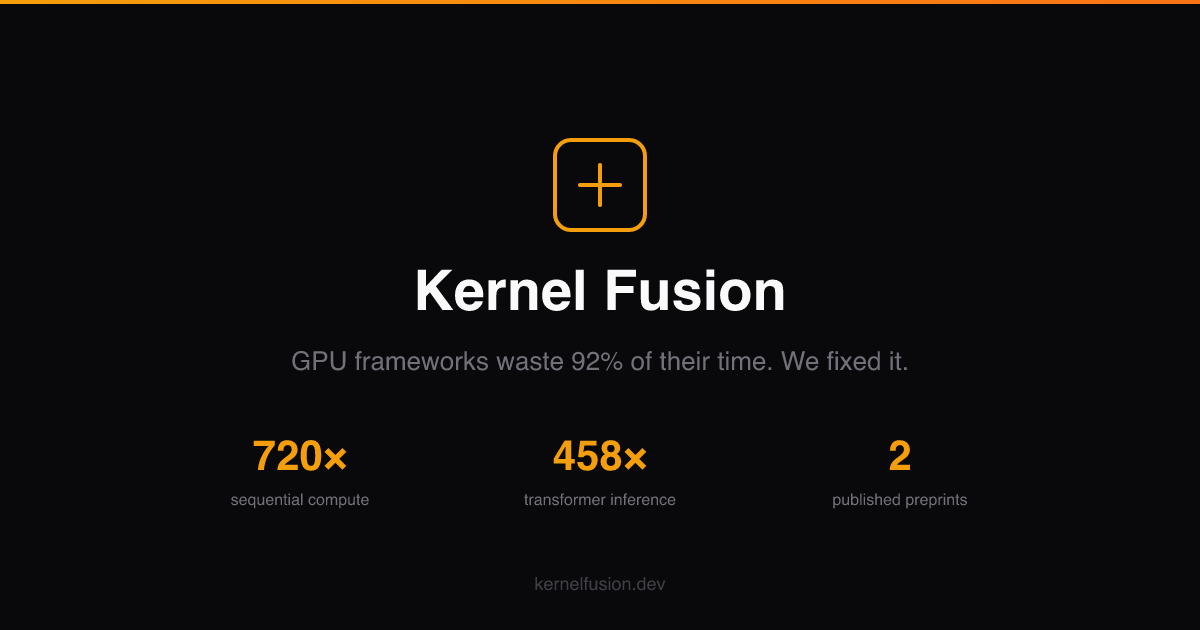
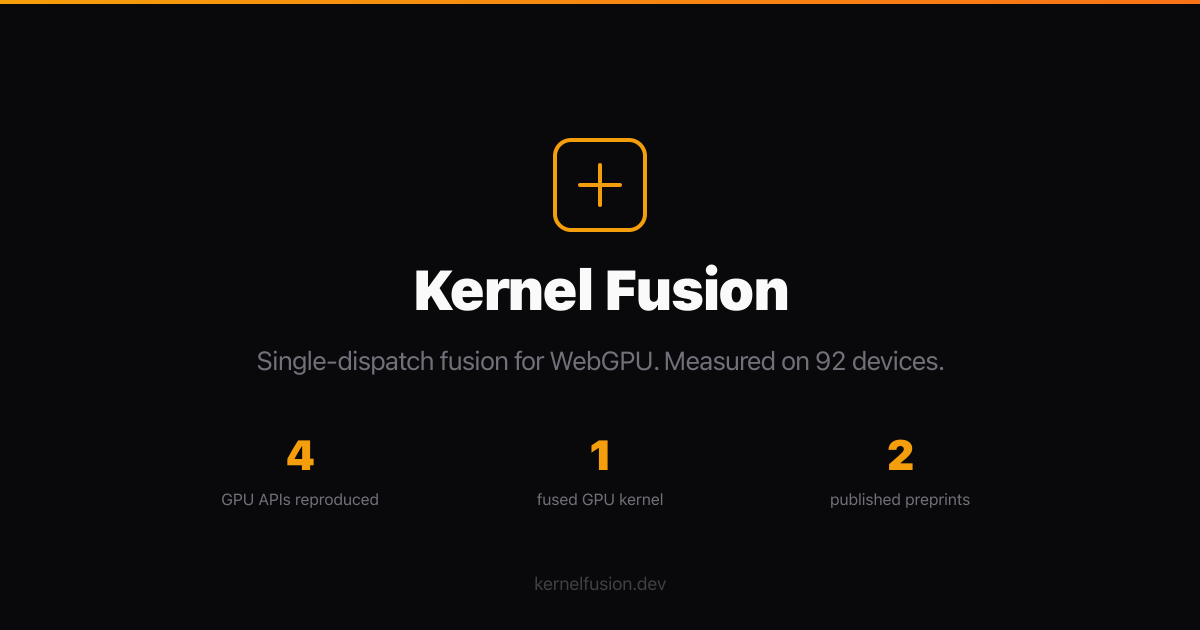
copy: clarify prior art + baseline framing across the site
- Hero (page.tsx, /why): drop "I fixed it" / "I proved it"; acknowledge
  TVM/XLA/Burn already fuse operator patterns; position contribution
  as full-decode/full-fitness fusion measured across 92 devices.
- /why step 1: replace "(PyTorch, JAX, WebLLM)" framework list with
  "eager browser GPU pipelines" — JAX-jit and WebLLM both fuse, so the
  old list misrepresented production compilers.
- /why: add Related Work section citing TVM/MLC/WebLLM (arXiv:2412.15803),
  Burn/CubeCL, ONNX Runtime Web, Maczan (arXiv:2604.02344, closest peer),
  nnJIT (arXiv:2309.08978).
- /why meta description: align with new framing.
- Insight diagram: "How frameworks work" -> "How eager dispatch works".
- live-results share text: drop "faster than PyTorch" overclaim; the
  cross-vendor 71x/56x medians are fused-vs-unfused on the same device,
  not over PyTorch (the Paper 2 cross-vendor table column is speedup_par).
- og.svg subtitle: "GPU frameworks waste 92% of their time. We fixed it."
  -> "Single-dispatch fusion for WebGPU. Measured on 92 devices."
  Regenerated og.png from updated svg via rsvg-convert.

diff --git a/src/app/why/page.tsx b/src/app/why/page.tsx
@@ -3,7 +3,7 @@ import { LINKS } from "@/lib/constants";
 
 export const metadata: Metadata = {
   title: "Why Kernel Fusion Matters — kernelfusion.dev",
-  description: "GPU frameworks waste 92% or more of their time on dispatch overhead. I eliminated it. 92 unique devices across 7 GPU vendors. Here's what that means for everyone.",
+  description: "Naïve browser GPU pipelines waste 92%+ of their time on dispatch overhead. Kernel fusion eliminates it; I shipped it for WebGPU and measured the result on 92 unique devices across 7 GPU vendors.",
 };
 
 const beforeAfter = [
@@ -23,7 +23,7 @@ const personas = [
 ];
 
 const steps = [
-  { title: "The problem: 92%+ overhead", desc: "GPU frameworks (PyTorch, JAX, WebLLM) send one small task to the GPU, wait for it to finish, send the next one. For a 64-token generation with 4 layers, that's 1,024 separate round-trips. Each round-trip takes longer than the actual math." },
+  { title: "The problem: 92%+ overhead on naïve dispatch", desc: "Eager browser GPU pipelines (TF.js, hand-written WebGPU loops) send one small task to the GPU, wait for it to finish, send the next one. For a 64-token generation with 4 layers, that's 1,024 separate round-trips. Each round-trip takes longer than the actual math. Compilers like TVM, XLA, and Burn fuse some of this — but rarely the whole graph, and the WebGPU backend is the least-tuned target across the board." },
   { title: "The fix: one dispatch", desc: "Pack the entire computation \u2014 all tokens, all layers, all operations \u2014 into a single GPU instruction. The GPU loops internally. No round-trips. No waiting. Same math, same result." },
   { title: "The proof: 92 unique devices, 7 vendors", desc: "Two preprints, then 92 unique devices ran it across 7 GPU vendors. Median speedups (the typical experience): Apple Silicon 71\u00D7, NVIDIA 56\u00D7, ARM Mali 55\u00D7, Intel 43\u00D7, AMD 40\u00D7, Qualcomm Adreno 20\u00D7. Tested across Chrome, Firefox, Safari on macOS, Windows, Linux, Android, and iOS." },
   { title: "The result: AI on a phone", desc: "213,000 tokens per second peak on a phone. 15,000 average across all mobile devices. No Python, no CUDA, no cloud. A browser tab outperforms PyTorch on the same hardware." },
@@ -55,8 +55,9 @@ export default function WhyPage() {
             The software isn&apos;t.
           </h1>
           <p className="text-lg text-kf-muted max-w-lg mx-auto">
-            GPU frameworks waste 92% or more of their time on overhead &mdash; sending tasks one by one
-            instead of all at once. I proved it, fixed it, and 92 unique devices across 7 GPU vendors confirmed it.
+            Naïve browser GPU pipelines waste 92%+ of their time on dispatch overhead &mdash; sending tasks
+            one by one instead of all at once. Kernel fusion eliminates that. I shipped it for WebGPU and
+            measured the result across 92 unique devices and 7 GPU vendors.
           </p>
         </header>
 
@@ -161,6 +162,56 @@ export default function WhyPage() {
                 Median speedup (the typical experience): NVIDIA 56&times;, Apple Silicon 71&times;, ARM Mali 55&times;, Intel 43&times;, AMD 40&times;, Qualcomm Adreno 20&times;.
                 Peak observed: 402&times; on NVIDIA, 226&times; on Apple Silicon, 103&times; on Qualcomm.
                 Smaller in relative terms on phones because absolute throughput is lower &mdash; but still an order of magnitude faster than unfused.
+              </p>
+            </div>
+          </div>
+        </section>
+
+        {/* Related work */}
+        <section className="py-16 border-t border-kf-border/50">
+          <h2 className="text-2xl font-bold mb-3">Related work</h2>
+          <p className="text-kf-muted mb-8 max-w-lg">
+            Kernel fusion isn&apos;t new. Here&apos;s the lineage and where this work fits.
+          </p>
+          <div className="space-y-4">
+            <div className="card">
+              <h3 className="font-semibold mb-2">Apache TVM / MLC-LLM / WebLLM <span className="text-xs text-kf-muted/70 font-normal">(since ~2020; WebLLM <a href="https://arxiv.org/abs/2412.15803" className="text-kf-accent hover:underline">arXiv:2412.15803</a>, Dec 2024)</span></h3>
+              <p className="text-sm text-kf-muted leading-relaxed">
+                TVM and MLC-LLM compile Python models through graph-level fusion down to WebGPU kernels.
+                WebLLM uses this stack to ship LLMs in the browser. This work fuses the entire autoregressive
+                decoder by hand in WGSL &mdash; no Python toolchain &mdash; and ablates the limit of single-dispatch fusion.
+              </p>
+            </div>
+            <div className="card">
+              <h3 className="font-semibold mb-2">Burn / CubeCL <span className="text-xs text-kf-muted/70 font-normal">(Tracel AI, <a href="https://burn.dev/blog/fusion-tensor-operation-streams/" className="text-kf-accent hover:underline">tensor-stream fusion</a>, Mar 2024)</span></h3>
+              <p className="text-sm text-kf-muted leading-relaxed">
+                Rust-side tensor-op stream fusion targeting CUDA, Metal, ROCm, Vulkan, and WGPU.
+                Reported up to 78&times; on the WGPU backend for elementwise operators.
+                This work targets WebGPU directly without the Rust compilation step.
+              </p>
+            </div>
+            <div className="card">
+              <h3 className="font-semibold mb-2">ONNX Runtime Web (WebGPU EP) <span className="text-xs text-kf-muted/70 font-normal">(Microsoft, <a href="https://opensource.microsoft.com/blog/2024/02/29/onnx-runtime-web-unleashes-generative-ai-in-the-browser-using-webgpu/" className="text-kf-accent hover:underline">v1.17, Feb 2024</a>)</span></h3>
+              <p className="text-sm text-kf-muted leading-relaxed">
+                WebGPU execution provider with graph-level node fusion (Conv+Add and similar patterns).
+                Production-grade, used by Transformers.js. Fuses operator patterns; this work fuses the full transformer block.
+              </p>
+            </div>
+            <div className="card">
+              <h3 className="font-semibold mb-2">Maczan <span className="text-xs text-kf-muted/70 font-normal">(<a href="https://arxiv.org/abs/2604.02344" className="text-kf-accent hover:underline">arXiv:2604.02344</a>, Feb 2026) &mdash; closest peer</span></h3>
+              <p className="text-sm text-kf-muted leading-relaxed">
+                Cross-vendor WebGPU dispatch overhead study across 4 GPU vendors, 3 backends, 3 browsers.
+                Found 53% throughput improvement from fusion on Vulkan and no benefit on CUDA. Per-dispatch
+                API overhead 24&ndash;71&micro;s. This work covers 92 devices and 7 vendors, and fuses the entire
+                decoding loop into one dispatch.
+              </p>
+            </div>
+            <div className="card">
+              <h3 className="font-semibold mb-2">nnJIT <span className="text-xs text-kf-muted/70 font-normal">(Jia et al, <a href="https://arxiv.org/abs/2309.08978" className="text-kf-accent hover:underline">arXiv:2309.08978</a>, Sept 2023)</span></h3>
+              <p className="text-sm text-kf-muted leading-relaxed">
+                First paper to explicitly target WebGPU for browser DL inference, via JIT kernel generation.
+                Optimizes individual kernels but does not fuse them. Establishes the WebGPU compute path;
+                this work uses fusion on top.
               </p>
             </div>
           </div>

diff --git a/src/app/page.tsx b/src/app/page.tsx
@@ -140,16 +140,16 @@ export default function HomePage() {
       {/* Hero */}
       <header className="max-w-4xl mx-auto px-6 pt-12 pb-8 text-center">
         <h1 className="text-4xl md:text-6xl font-extrabold tracking-tight leading-[1.1] mb-6">
-          GPU frameworks waste{" "}
-          <span className="bg-gradient-to-r from-kf-accent to-orange-300 bg-clip-text text-transparent">92% or more</span>
-          {" "}of their time.
+          Naïve browser GPU code wastes{" "}
+          <span className="bg-gradient-to-r from-kf-accent to-orange-300 bg-clip-text text-transparent">92%+ of dispatch time.</span>
           <br />
-          <span className="text-kf-muted text-3xl md:text-4xl font-bold">I fixed it.</span>
+          <span className="text-kf-muted text-3xl md:text-4xl font-bold">Kernel fusion fixes it. I shipped it for the web.</span>
         </h1>
         <p className="text-lg text-kf-muted max-w-2xl mx-auto mb-8">
-          Kernel fusion eliminates per-dispatch overhead by packing entire computations into
-          single GPU instructions. 92 real-world devices across 7 GPU vendors — median 71&times; on
-          Apple Silicon, 56&times; on NVIDIA, 20&times; on phones; peaks 226&times; / 402&times; / 103&times;.
+          Kernel fusion is a known technique &mdash; TVM, XLA, and Burn already fuse operator patterns.
+          What I shipped: full transformer decode and full evolutionary fitness loops as a single WebGPU
+          dispatch, measured across 92 real-world devices and 7 GPU vendors. Median 71&times; on Apple Silicon,
+          56&times; on NVIDIA, 20&times; on phones; peaks 226&times; / 402&times; / 103&times;.
           Zero installation. Any browser.
         </p>
         <div className="flex flex-wrap gap-3 justify-center">
@@ -165,7 +165,7 @@ export default function HomePage() {
           <h2 className="text-xl font-bold mb-4">The insight</h2>
           <div className="grid md:grid-cols-2 gap-6">
             <div>
-              <p className="text-sm text-kf-muted mb-3 font-medium uppercase tracking-wider">How frameworks work</p>
+              <p className="text-sm text-kf-muted mb-3 font-medium uppercase tracking-wider">How eager dispatch works</p>
               <div className="bg-kf-bg rounded-lg p-4 font-mono text-xs text-kf-muted leading-relaxed">
                 <p className="text-kf-red">dispatch</p> step 1 → <span className="text-kf-muted/50">wait</span> → <span className="text-kf-red">dispatch</span> step 2 → <span className="text-kf-muted/50">wait</span>
                 <p className="mt-1">... &times; 1,500 steps = 22,500 round-trips</p>

diff --git a/src/components/live-results.tsx b/src/components/live-results.tsx
@@ -106,7 +106,7 @@ export function LiveResults() {
   const browserEntries = Object.entries(data.browsers).sort((a, b) => b[1] - a[1]);
 
   const vendorLines = topVendors
-    .map((v) => `• ${v.name}: ${v.avgSpeedup.toLocaleString()}\u00D7 faster on average`)
+    .map((v) => `• ${v.name}: ${v.avgSpeedup.toLocaleString()}\u00D7 median (fused vs unfused, same device)`)
     .join("\n");
 
   const mobileLine =
@@ -115,9 +115,9 @@ export function LiveResults() {
       : "";
 
   const shareText = [
-    `${data.total.toLocaleString()} people tested a research technique called kernel fusion on their own devices.`,
+    `${data.total.toLocaleString()} people ran a kernel-fusion benchmark on their own devices via WebGPU.`,
     ``,
-    `It makes GPU programs faster than PyTorch by eliminating wasted time between instructions. How much faster:`,
+    `Eliminating per-dispatch overhead — fused single dispatch vs naïve unfused dispatch on the same hardware:`,
     ``,
     vendorLines,
     ``,